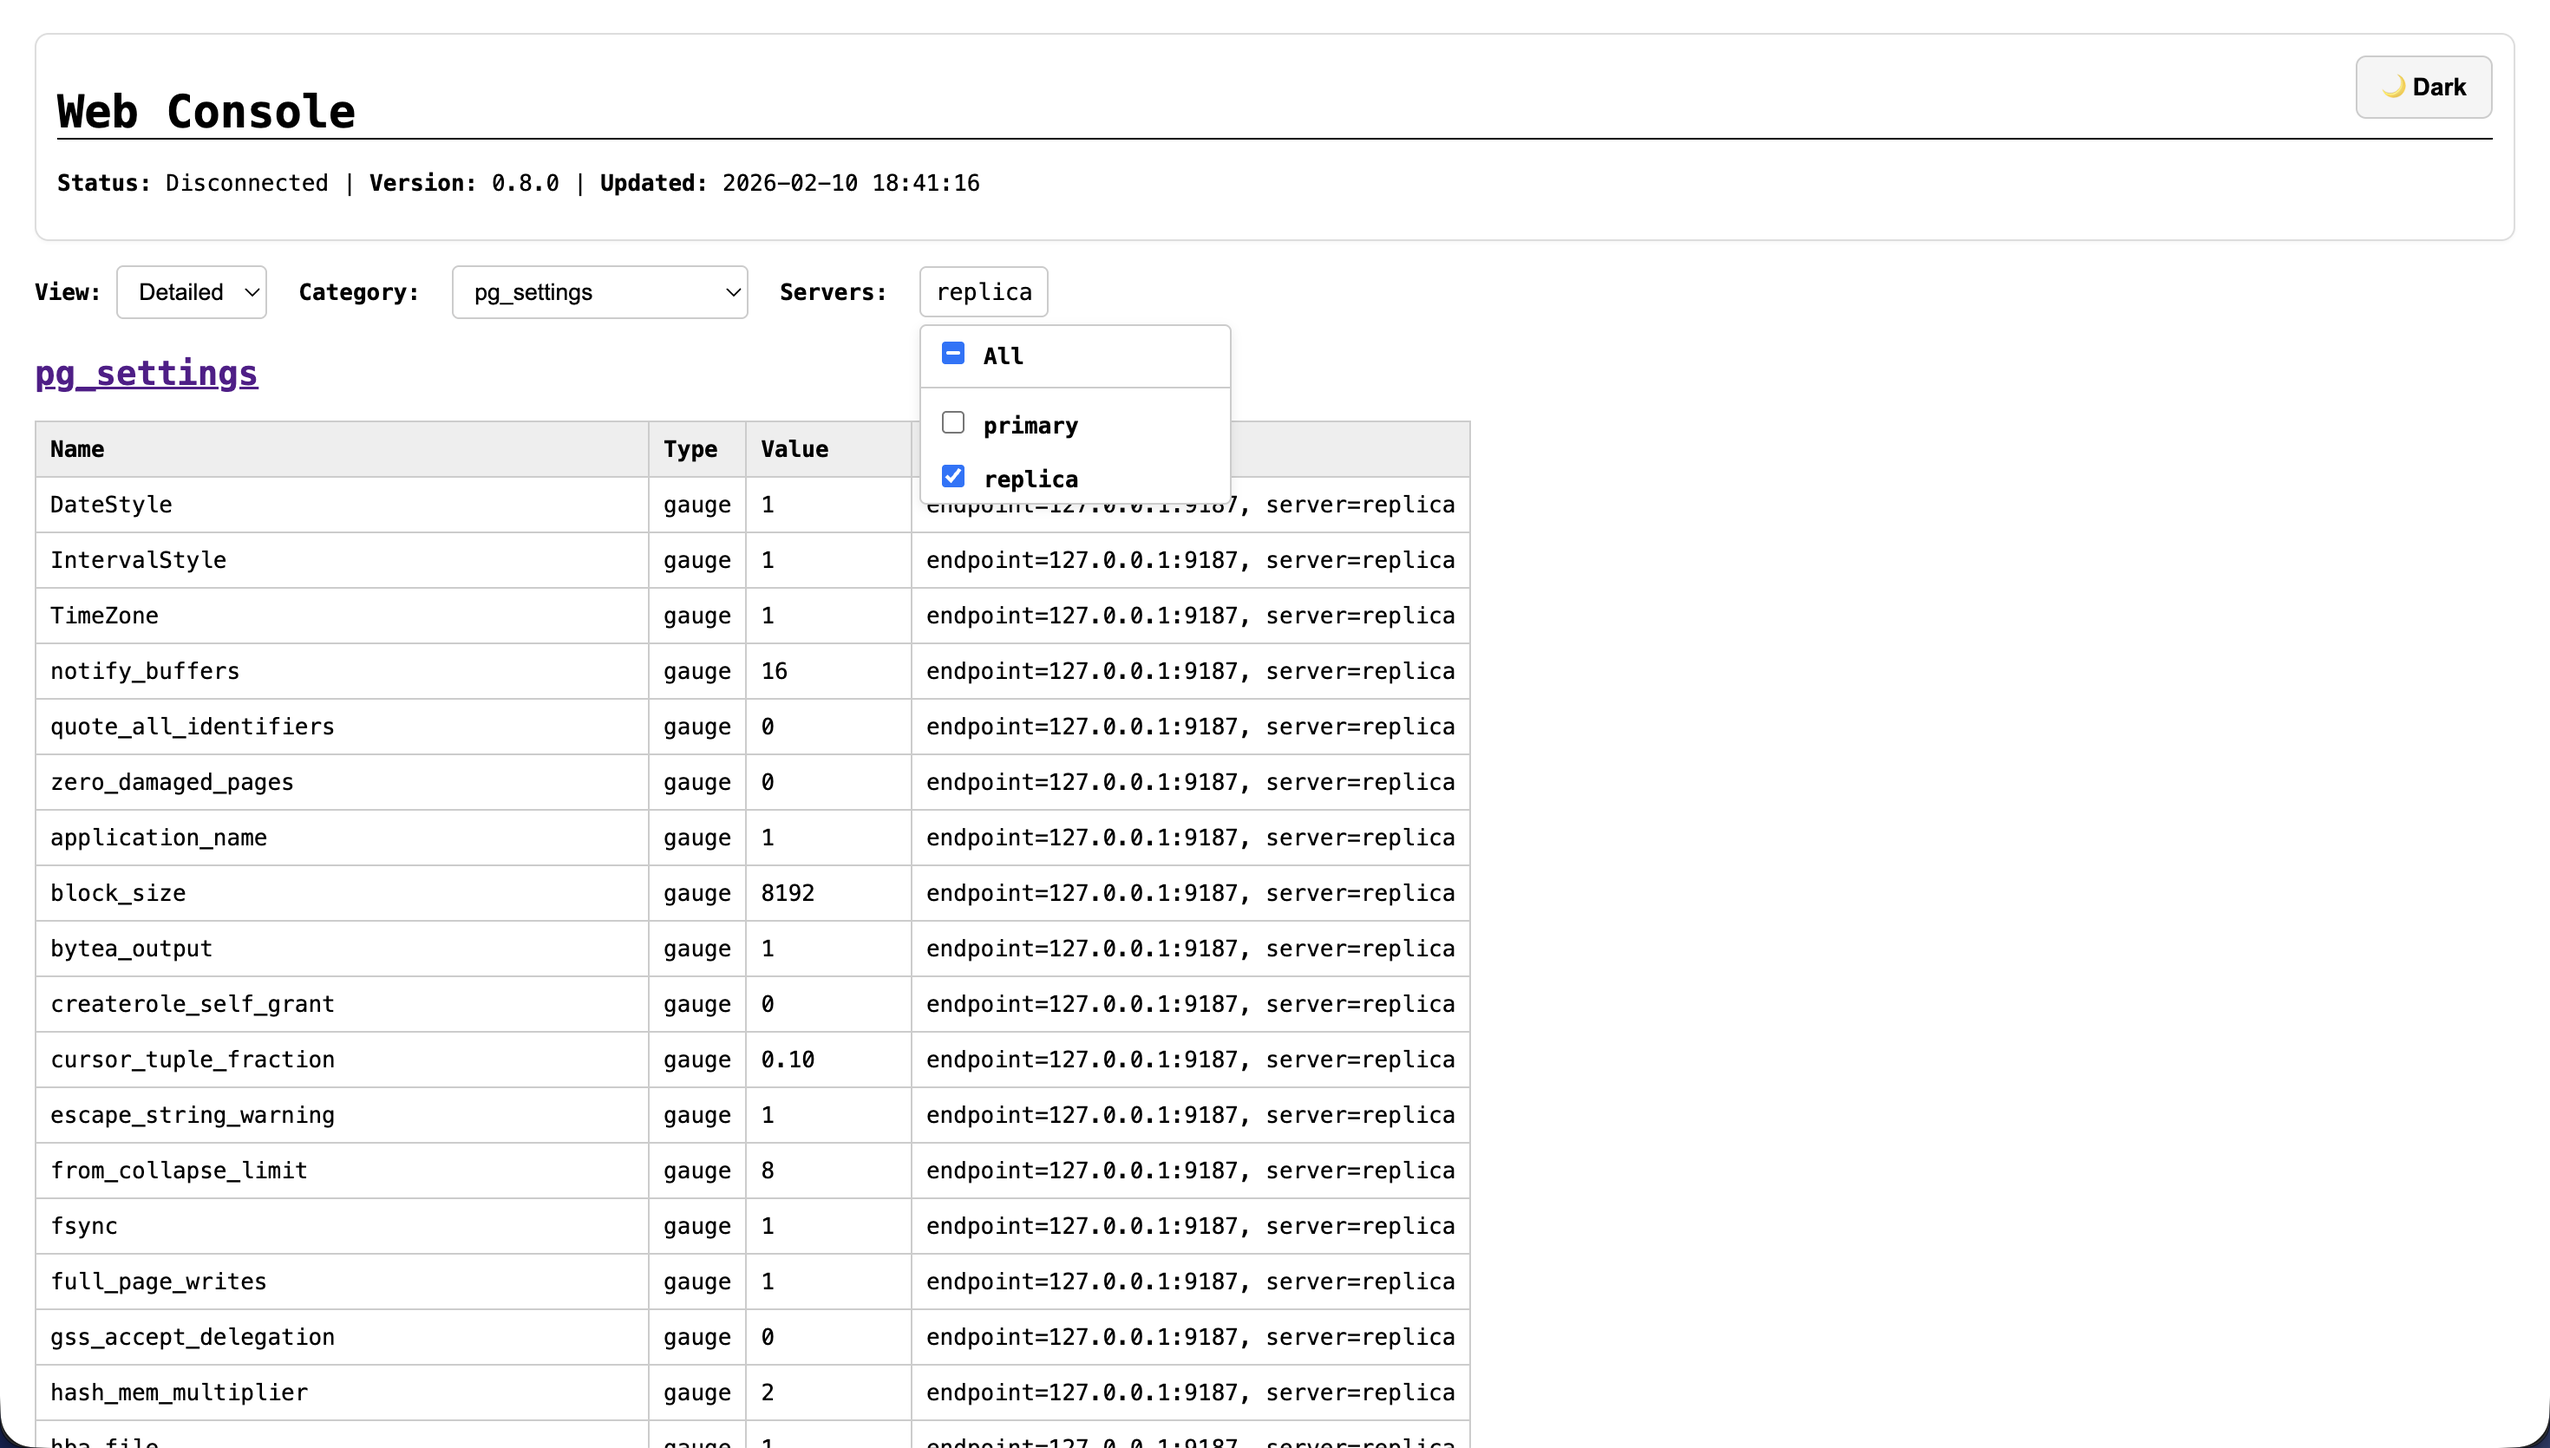
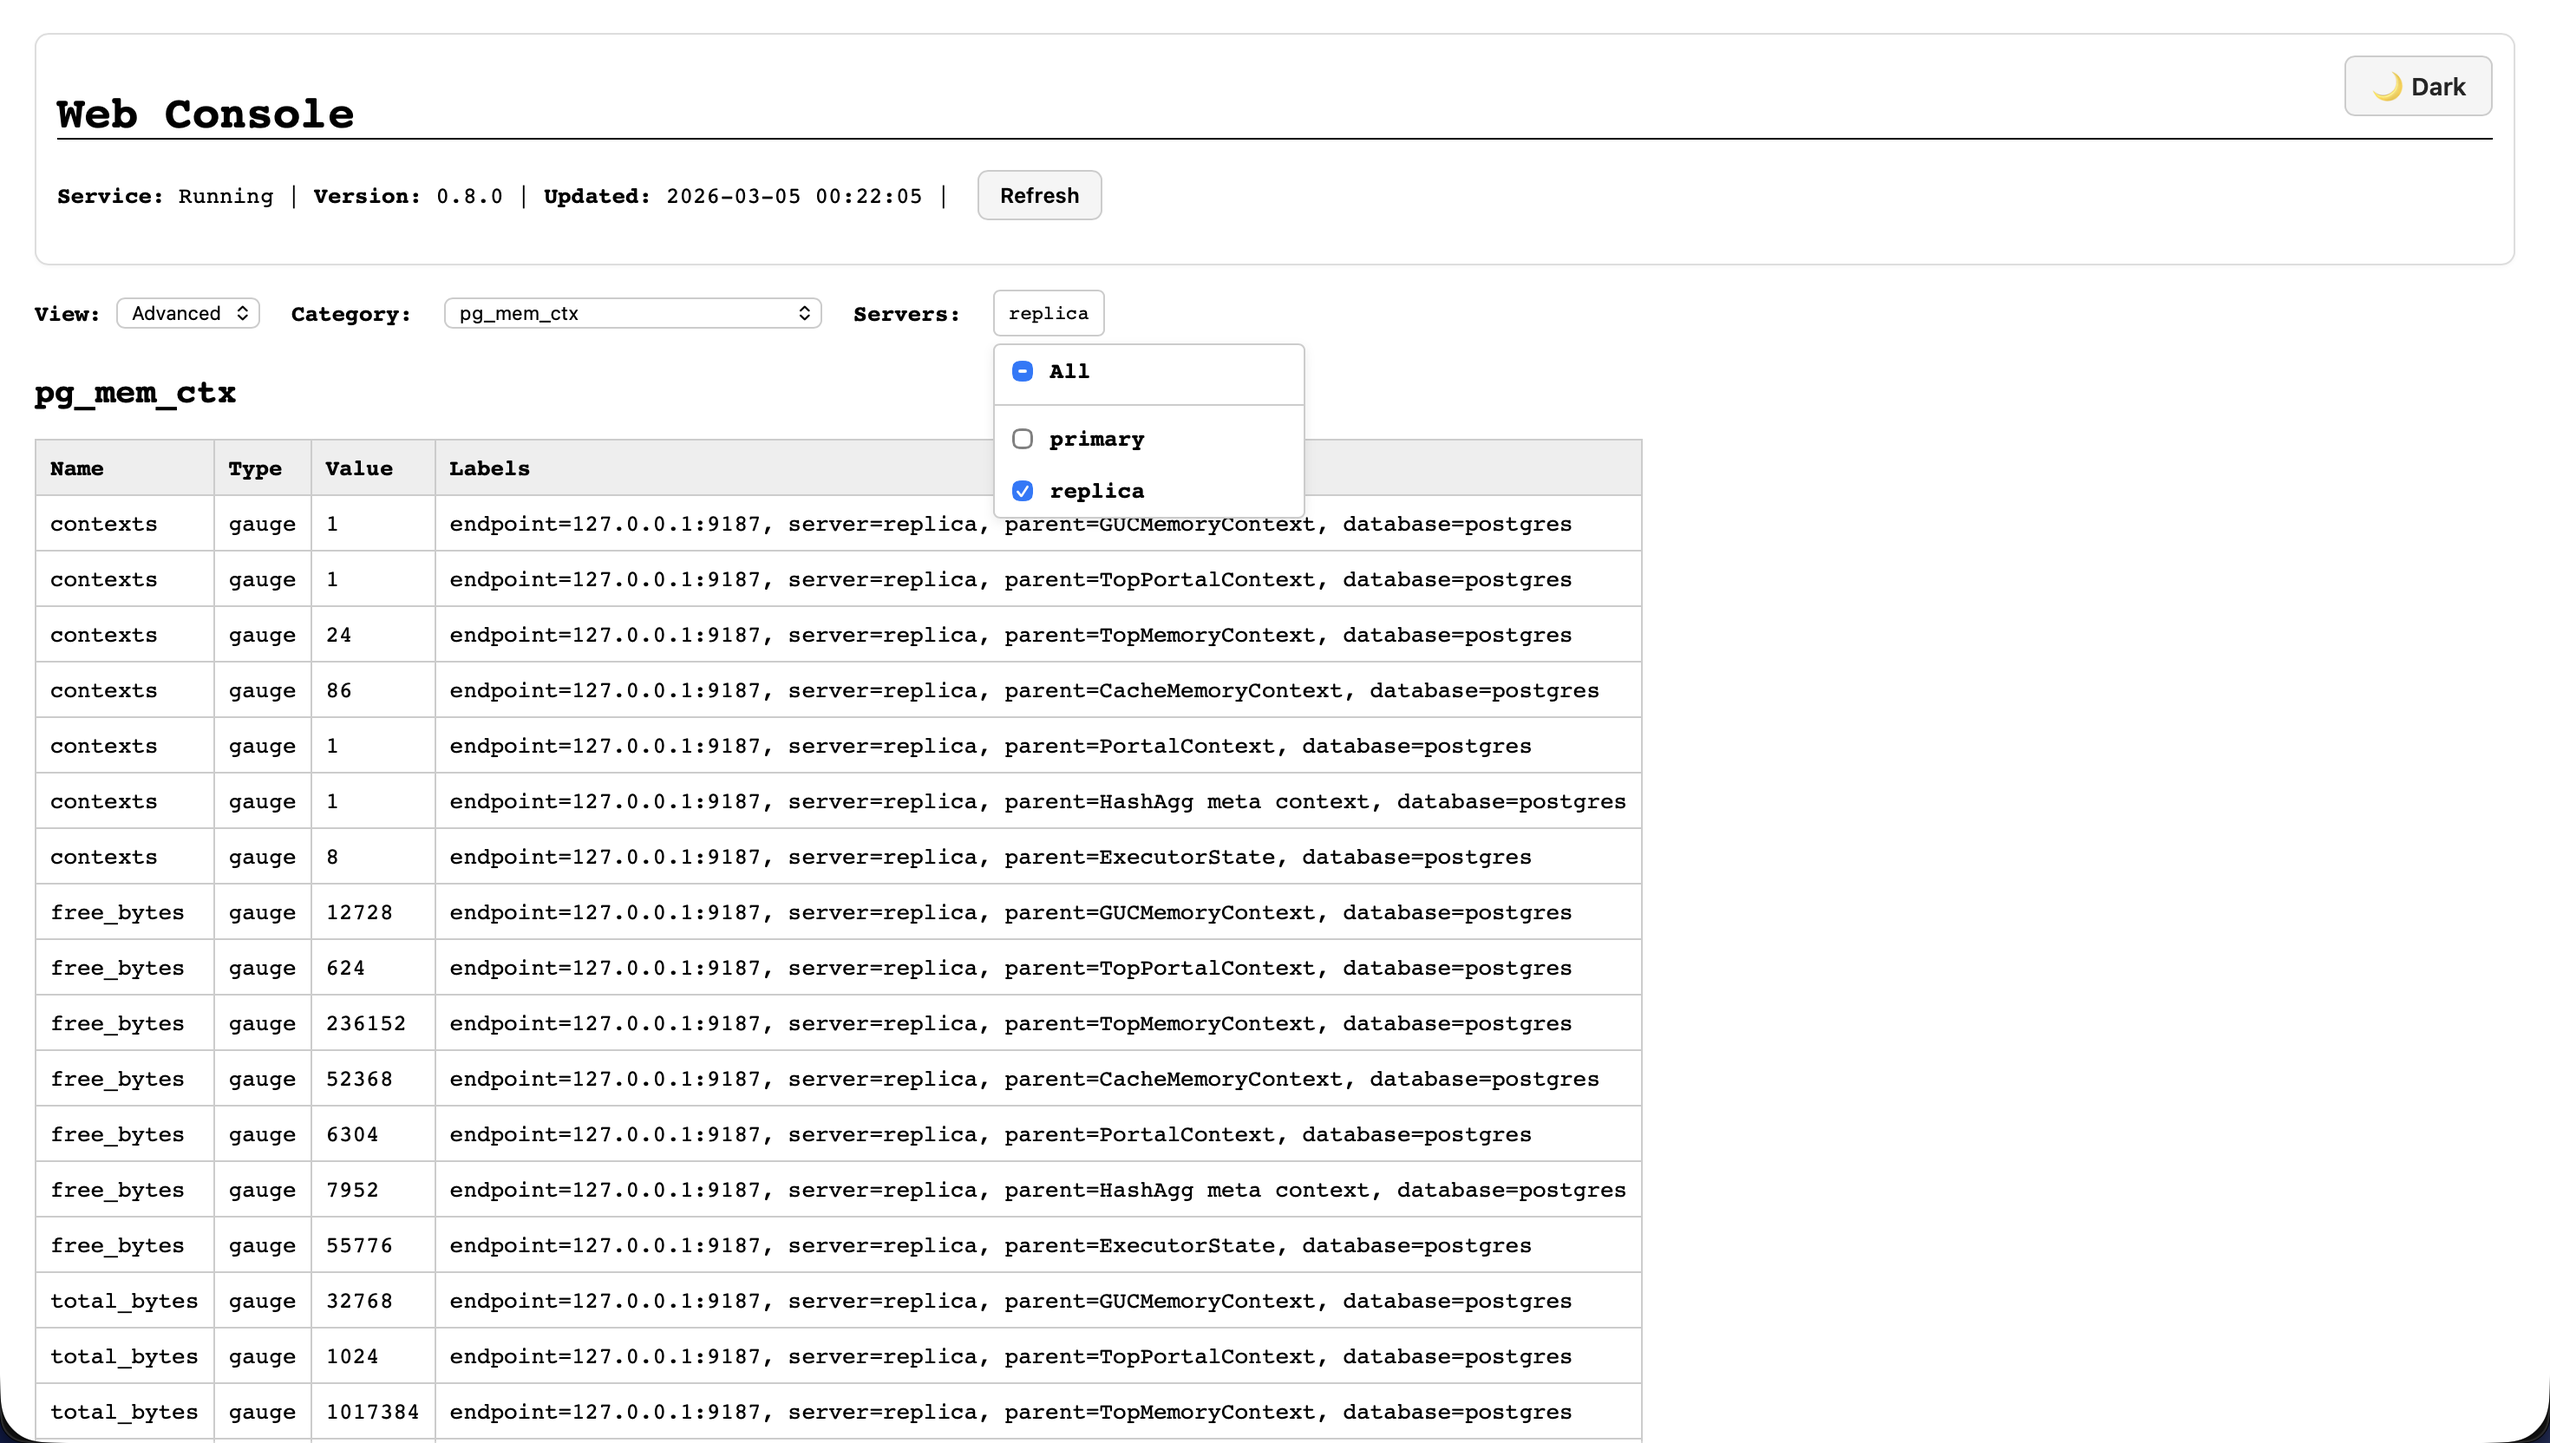
[#468] Updated web console documentation

diff --git a/doc/CONSOLE.md b/doc/CONSOLE.md
@@ -38,29 +38,30 @@ When you first load the console, you see the **home page** with:
 - **Service header** showing pgexporter service status (Running or Unavailable)
 - **Version** of pgexporter
 - **Category selector** dropdown to choose which metric group to view
-- **View selector** (Simple or Detailed mode)
+- **View selector** (Simple or Advanced mode)
 - **Server filter** dropdown to choose which PostgreSQL servers to display
 - **Metrics table** showing the selected category
-- **Category heading** link (clickable) that leads to the detailed category page
+- **Refresh** button to reload metrics and status
+- **Theme toggle** button (Dark/Light)
 
 ### 2. Home page—simple view
 
 The default simple view shows:
 - **Metric name** (column 1)
 - **Value** (column 2)
-- Labels are hidden for a clean, summary view
+- **Label columns** (additional columns) — each label key appears as its own column
 
 ![Web console home page in simple view](./manual/images/console_home_simple.png)
 
-### 3. Home page—detailed view
+### 3. Home page—advanced view
 
-Toggle to detailed view to see:
+Toggle to advanced view to see:
 - **Metric name** (column 1)
 - **Type** (gauge, counter, histogram, etc.) — (column 2)
 - **Value** (column 3)
-- **Labels** (column 4) — e.g., `database=mydb, server=primary`
+- **Labels** (column 4) — one comma-separated column, e.g., `database=mydb, server=primary`
 
-![Web console home page in detail view](./manual/images/console_home_detail.png)
+![Web console home page in advanced view](./manual/images/console_home_advanced.png)
 
 ### 4. Category organization
 
@@ -81,24 +82,15 @@ The **Server filter** dropdown:
 
 ![Web console home page server filter](./manual/images/console_home_server_filter.png)
 
-### 6. Detailed category page
+### 6. Refresh button
 
-Click on the **category heading** (e.g., "pg_stat_statements") on the home page
-to open the **detail page** for that category.
-
-On the detail page you see:
-- All metrics in that category organized by their **labels**
-- Each unique label combination gets its own **column**
-- For example: if metrics have labels `(database=mydb, user=alice)` and `(database=testdb, user=bob)`,
-  you see separate columns for each
-
-![Web console category detail page](./manual/images/console_category_detail.png)
+Click **Refresh** in the header (next to the **Updated** timestamp) to reload
+all metrics and service status.
 
 ## API endpoints
 
 - `/` — Main console (home page)
 - `/api` — JSON endpoint with all metrics (useful for scripting)
-- `/detail?cat=N` — Detailed view for category N
 
 ## Theme toggle
 

diff --git a/doc/manual/en/10-console.md b/doc/manual/en/10-console.md
@@ -40,29 +40,30 @@ When you first load the console, you see the **home page** with:
 - **Service header** showing pgexporter service status (Running or Unavailable)
 - **Version** of pgexporter
 - **Category selector** dropdown to choose which metric group to view
-- **View selector** (Simple or Detailed mode)
+- **View selector** (Simple or Advanced mode)
 - **Server filter** dropdown to choose which PostgreSQL servers to display
 - **Metrics table** showing the selected category
-- **Category heading** link (clickable) that leads to the detailed category page
+- **Refresh** button to reload metrics and status
+- **Theme toggle** button (Dark/Light)
 
 ### 2. Home page—simple view
 
 The default simple view shows:
 - **Metric name** (column 1)
 - **Value** (column 2)
-- Labels are hidden for a clean, summary view
+- **Label columns** (additional columns) — each label key appears as its own column
 
 ![Web console home page in simple view](../images/console_home_simple.png)
 
-### 3. Home page—detailed view
+### 3. Home page—advanced view
 
-Toggle to detailed view to see:
+Toggle to advanced view to see:
 - **Metric name** (column 1)
 - **Type** (gauge, counter, histogram, etc.) — (column 2)
 - **Value** (column 3)
-- **Labels** (column 4) — e.g., `database=mydb, server=primary`
+- **Labels** (column 4) — one comma-separated column, e.g., `database=mydb, server=primary`
 
-![Web console home page in detailed view](../images/console_home_detail.png)
+![Web console home page in advanced view](../images/console_home_advanced.png)
 
 ### 4. Category organization
 
@@ -83,24 +84,15 @@ The **Server filter** dropdown:
 
 ![Web console home page server filter](../images/console_home_server_filter.png)
 
-### 6. Detailed category page
+### 6. Refresh button
 
-Click on the **category heading** (e.g., "pg_stat_statements") on the home page
-to open the **detail page** for that category.
-
-On the detail page you see:
-- All metrics in that category organized by their **labels**
-- Each unique label combination gets its own **column**
-- For example: if metrics have labels `(database=mydb, user=alice)` and `(database=testdb, user=bob)`,
-  you see separate columns for each
-
-![Web console category detail page](../images/console_category_detail.png)
+Click **Refresh** in the header (next to the **Updated** timestamp) to reload
+all metrics and service status.
 
 ## API endpoints
 
 - `/` — Main console (home page)
 - `/api` — JSON endpoint with all metrics (useful for scripting)
-- `/detail?cat=N` — Detailed view for category N
 
 ## Theme toggle
 
